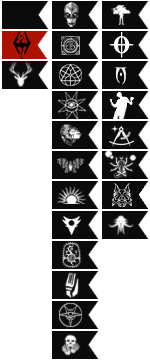
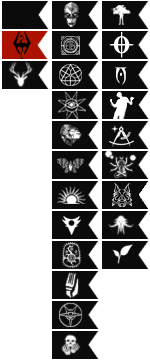
lebiro has flair now. merging to master.

Changed region(s): [[0.6667, 0.6722, 0.9867, 0.7639]]

diff --git a/teslore/flair/private.sass b/teslore/flair/private.sass
@@ -19,3 +19,5 @@ span.flair-Orcpocrypha // Orcpocrypha - myrrlyn (Deprecated)
   background-position: -100px -180px
 span.flair-Seeker // Seeker - salivific
   background-position: -100px -210px
+span.flair-Storyteller // Storyteller - lebiro
+  background-position: -100px -240px
